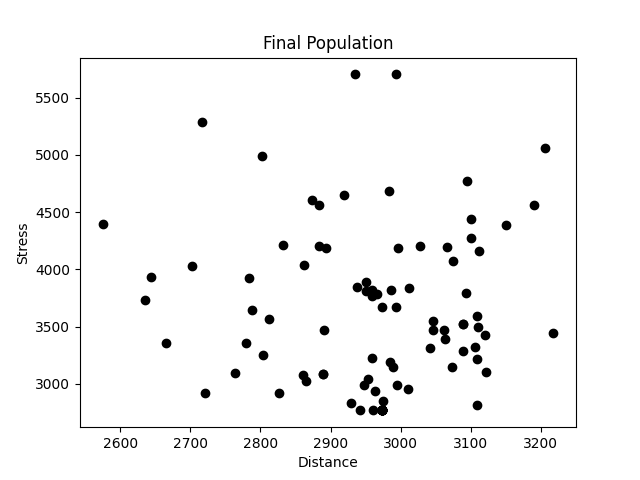
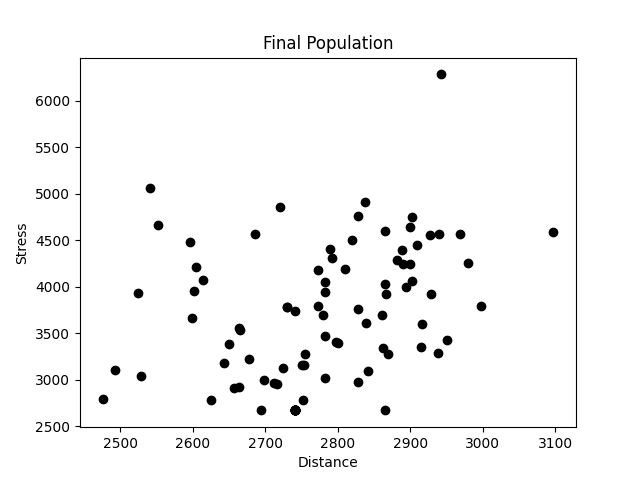
Initialsolution GreedyCode

diff --git a/Single-Objective/Ursprungscode/TSP_SingleObjective.py b/Single-Objective/Ursprungscode/TSP_SingleObjective.py
@@ -329,7 +329,6 @@ cityList = []
 random.seed(44)
 for i in range(1,26):
     cityList.append(City(nr= i, traffic=int(random.random()*40), x=int(random.random() * 200), y=int(random.random() * 200)))
-    
 print(cityList)
 
 
@@ -362,17 +361,71 @@ cityNumbersRoute1 = [1, 2, 3, 4, 5, 6, 7, 8, 9, 10, 11, 12, 13, 14, 15, 16, 17, 
 route1 = []
 for nr in cityNumbersRoute1:
     route1.append(getCityBasedOnNr(cityList,nr))
+
+def findNearestCity(currentCity, remainingCities, objective=1):
+    """
+    Finds the nearest city based on the given objective.
+    :param currentCity: The current city object.
+    :param remainingCities: List of remaining city objects.
+    :param objective: 1 for distance, 2 for stress.
+    :return: The nearest city object based on the selected metric.
+    """
+    nearestCity = None
+    minMetric = float('inf')
     
+    for city in remainingCities:
+        if objective == 1:  # Minimierung der Distanz
+            metric = currentCity.distance(city)
+        elif objective == 2:  # Minimierung des Stresses
+            metric = currentCity.stress(city)
+        
+        if metric < minMetric:
+            minMetric = metric
+            nearestCity = city
+            
+    return nearestCity
+
+def createGreedyRoute(cityList, startCityNr, objective=1):
+    """
+    Creates a route using a greedy algorithm based on the specified objective.
+    :param cityList: List of all city objects.
+    :param startCityNr: The starting city's number.
+    :param objective: 1 for minimizing distance, 2 for minimizing stress.
+    :return: A list representing the route.
+    """
+    remainingCities = cityList[:]
+    startCity = getCityBasedOnNr(remainingCities, startCityNr)
+    route = [startCity]
+    remainingCities.remove(startCity)
+    
+    currentCity = startCity
+    while remainingCities:
+        nextCity = findNearestCity(currentCity, remainingCities, objective)
+        route.append(nextCity)
+        remainingCities.remove(nextCity)
+        currentCity = nextCity
+    
+    return route
+
+
+
+# Define the start city and objective
+startCityNr = 1 # Starting with city number 1
+objective = 1    # 1 = Minimize distance, 2 = Minimize stress
+
+# Generate the special initial route based on the chosen objective
+route2 = createGreedyRoute(cityList, startCityNr, objective)
 
 initialSolutionsList = []
 #TODO: Spezielle Intiallösungen der initialSolutionsList übergeben    
-initialSolutionsList.append(route1)
+initialSolutionsList.append(route2)
+
 
 #Run the genetic algorithm
 #modify parameters popSize, eliteSize, mutationRate, generations to search for the best solution
 #modify objectiveNrUsed to use different objectives:
 # 1= Minimize distance, 2 = Minimize stress
 bestRoute = geneticAlgorithm(objectiveNrUsed=1, specialInitialSolutions = initialSolutionsList, population=cityList, popSize=100, eliteSize=20, mutationRate=0.01, generations=100)
-print(bestRoute)
+print(bestRoute) 
 
 plotRoute(bestRoute, "Best final route")

diff --git a/Single-Objective/Classes/Operations.py b/Single-Objective/Classes/Operations.py
@@ -21,7 +21,7 @@ def initialPopulation(popSize, cityList, specialInitialSolutions):
     numberInitialSolutions = len(specialInitialSolutions)
     print ("Number of special initial solutions:" + str(numberInitialSolutions))
 
-    for i in range(0, popSize): #TODO gegebenenfalls anpassen, falls bereits Initiallösungen hinzugefügt
+    for i in range(numberInitialSolutions, popSize): #TODO gegebenenfalls anpassen, falls bereits Initiallösungen hinzugefügt
         population.append(createRoute(cityList))
     return population
 

diff --git a/Single-Objective/Classes/Main.py b/Single-Objective/Classes/Main.py
@@ -77,7 +77,7 @@ route2 = createGreedyRoute(cityList, startCityNr, objective)
 
 initialSolutionsList = []
 #TODO: Spezielle Intiallösungen der initialSolutionsList übergeben    
-initialSolutionsList.append(route1)    
+initialSolutionsList.append(route2)    
 #Run the genetic algorithm
 #modify parameters popSize, eliteSize, mutationRate, generations to search for the best solution
 #modify objectiveNrUsed to use different objectives:
